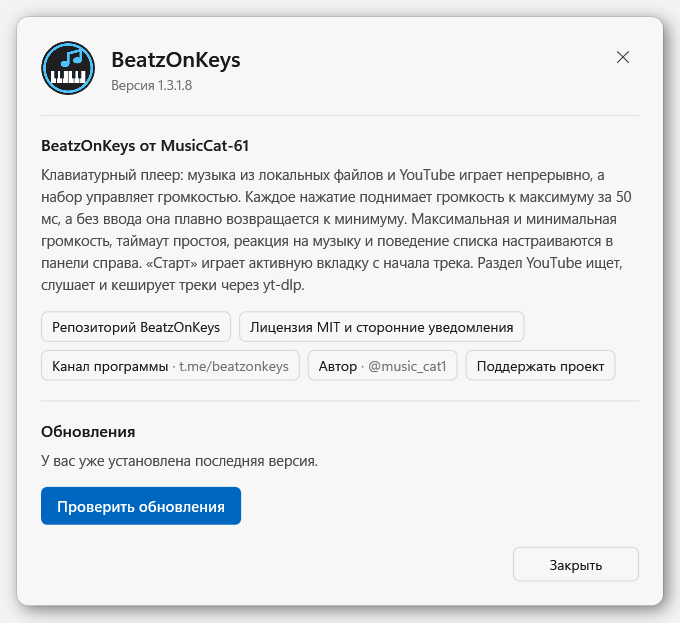
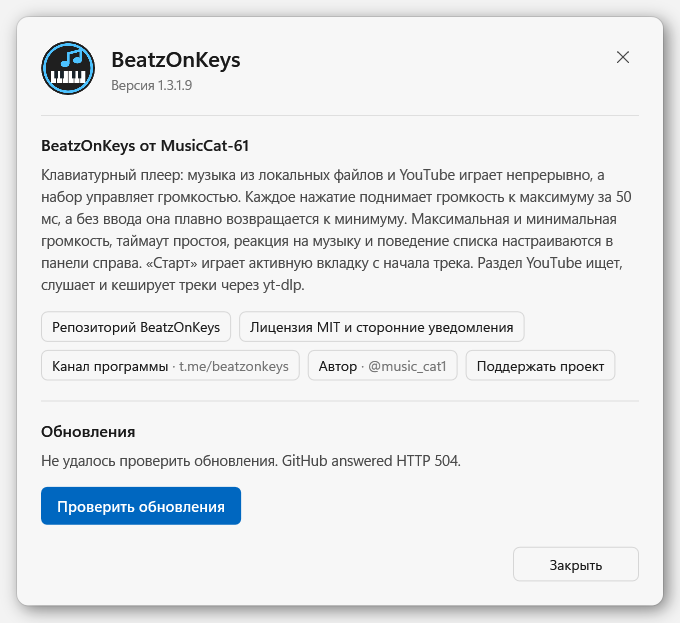
Release 1.3.1.9: previews ignore the idle pause, the link button says Download
The idle pause exists for the typing background: you stop typing, the track fades and pauses. A preview in the YouTube search is the opposite request, so YouTube tracks are now exempt: the effective pause is suspended while one plays, and the saved setting is untouched, so it returns as soon as a playlist track plays again. The suppression is applied before the first note, so a short idle time cannot be armed and fire a moment later.

The search hint told the user to press Download while the button read Add. It now says Download when a link is pasted; the per-row button keeps its Add label because that is what it does.

Core 112 tests, UI smoke 234 checks, production tray 11.

Changed region(s): [[0.0618, 0.7319, 0.6794, 0.7624]]

diff --git a/BeatzOnKeys.UI/Localization/Strings.ru.xaml b/BeatzOnKeys.UI/Localization/Strings.ru.xaml
@@ -167,6 +167,7 @@
     <sys:String x:Key="L_YtSearchPlaceholder">Название трека или ссылка YouTube</sys:String>
     <sys:String x:Key="L_YtSearch">Найти</sys:String>
     <sys:String x:Key="L_YtDownloadLink">Добавить</sys:String>
+    <sys:String x:Key="L_YtDownloadNow">Скачать</sys:String>
     <sys:String x:Key="L_YtTabSearch">Поиск</sys:String>
     <sys:String x:Key="L_YtTabDownloaded">Скачанные треки</sys:String>
     <sys:String x:Key="L_YtPreview">Слушать</sys:String>
@@ -248,7 +249,7 @@
     <sys:String x:Key="L_ZapretOpen">Открыть Zapret2UI</sys:String>
     <sys:String x:Key="Guide_SecYouTube">YouTube</sys:String>
     <sys:String x:Key="Guide_YouTubeSearchT">Поиск и скачивание</sys:String>
-    <sys:String x:Key="Guide_YouTubeSearchX">Вкладка «YouTube» в заголовке окна. Введите название и нажмите «Найти» — появится до 10 результатов. Кнопка «Скачать» рядом со строкой сохраняет трек. Если вставить ссылку на видео, «Найти» и «Скачать» скачают её сразу, без поиска.</sys:String>
+    <sys:String x:Key="Guide_YouTubeSearchX">Вкладка «YouTube» в заголовке окна. Введите название и нажмите «Найти» — появится до 10 результатов. Кнопка «Добавить» рядом с результатом сохраняет трек в постоянный список. Если вставить ссылку на видео, кнопка справа от поля станет «Скачать» и скачает её сразу, без поиска. Предпросмотр и скачанные треки играют полностью: пауза по простою на них не действует.</sys:String>
     <sys:String x:Key="Guide_YouTubeDownloadT">Прямые ссылки и ограничения</sys:String>
     <sys:String x:Key="Guide_YouTubeDownloadX">Кнопка «Добавить» на строке результата становится активной только после того, как трек закеширован, и переносит его в список скачанных. До этого момента нажимать нечего: файла ещё нет.</sys:String>
     <sys:String x:Key="Guide_YouTubeCacheT">Кеш и папка</sys:String>

diff --git a/BeatzOnKeys.UI/Localization/Strings.en.xaml b/BeatzOnKeys.UI/Localization/Strings.en.xaml
@@ -167,6 +167,7 @@ Details: {1}</sys:String>
     <sys:String x:Key="L_YtSearchPlaceholder">Track name or a YouTube link</sys:String>
     <sys:String x:Key="L_YtSearch">Search</sys:String>
     <sys:String x:Key="L_YtDownloadLink">Add</sys:String>
+    <sys:String x:Key="L_YtDownloadNow">Download</sys:String>
     <sys:String x:Key="L_YtTabSearch">Search</sys:String>
     <sys:String x:Key="L_YtTabDownloaded">Downloaded tracks</sys:String>
     <sys:String x:Key="L_YtPreview">Listen</sys:String>
@@ -248,7 +249,7 @@ Details: {1}</sys:String>
     <sys:String x:Key="L_ZapretOpen">Open Zapret2UI</sys:String>
     <sys:String x:Key="Guide_SecYouTube">YouTube</sys:String>
     <sys:String x:Key="Guide_YouTubeSearchT">Search and download</sys:String>
-    <sys:String x:Key="Guide_YouTubeSearchX">The YouTube tab in the title bar. Type a name and press Search to get up to ten results; the Download button on a row saves that track. Paste a video link and Search or Download will fetch it directly, without searching.</sys:String>
+    <sys:String x:Key="Guide_YouTubeSearchX">The YouTube tab in the window title. Type a name and press Search for up to 10 results. The Add button next to a result keeps the track in your saved list. Paste a video link and the button beside the field becomes Download and fetches it directly, without searching. Previews and downloaded tracks play in full: idle pausing does not apply to them.</sys:String>
     <sys:String x:Key="Guide_YouTubeDownloadT">Links and limits</sys:String>
     <sys:String x:Key="Guide_YouTubeDownloadX">The Add button on a result row becomes active only once the track is cached, and then moves it into the downloaded list. Before that there is nothing to press: the file does not exist yet.</sys:String>
     <sys:String x:Key="Guide_YouTubeCacheT">Cache and folder</sys:String>

diff --git a/BeatzOnKeys.UI/MainWindow.xaml b/BeatzOnKeys.UI/MainWindow.xaml
@@ -884,7 +884,8 @@
                                             <Style.Triggers>
                                                 <!-- A pasted link can only be downloaded, words can only be searched. -->
                                                 <DataTrigger Binding="{Binding YouTube.QueryIsLink}" Value="True">
-                                                    <Setter Property="Content" Value="{DynamicResource L_YtDownloadLink}"/>
+                                                    <!-- The hint says "press Download", so the button must say the same. -->
+                                                    <Setter Property="Content" Value="{DynamicResource L_YtDownloadNow}"/>
                                                     <Setter Property="Command" Value="{Binding YouTube.DownloadFromQueryCommand}"/>
                                                 </DataTrigger>
                                             </Style.Triggers>

diff --git a/BeatzOnKeys.UI/ViewModels/MainViewModel.cs b/BeatzOnKeys.UI/ViewModels/MainViewModel.cs
@@ -26,6 +26,11 @@ public sealed class MainViewModel : ObservableObject, IAsyncDisposable
     // Which tracks came from the YouTube cache, so the player card can name the source instead of
     // leaving the user guessing where the sound came from.
     private readonly HashSet<Guid> _youTubeTracks = [];
+    /// <summary>
+    /// True while a YouTube track is playing, which suspends the idle pause: a preview is the user
+    /// asking to hear the track properly, not the typing background this setting exists for.
+    /// </summary>
+    private bool _idlePauseSuppressed;
     private string _playingTrackText = string.Empty;
     private string _playingSourceText = string.Empty;
     private bool _isYouTubePage;
@@ -299,8 +304,29 @@ public sealed class MainViewModel : ObservableObject, IAsyncDisposable
     public bool PauseOnIdle
     {
         get => _pauseOnIdle;
-        set { if (SetProperty(ref _pauseOnIdle, value)) { _audioPlayer.PauseOnIdle = value; QueueSave(); } }
+        set { if (SetProperty(ref _pauseOnIdle, value)) { SyncIdlePause(); QueueSave(); } }
     }
+    /// <summary>
+    /// The idle pause exists for the typing background. A YouTube track — a search preview or a
+    /// saved one — is the user asking to hear it properly, so the pause stays out of the way.
+    /// Called from the progress tick, so an auto-advance back to a local track restores the setting
+    /// by itself without a second code path to forget.
+    /// </summary>
+    private void SyncIdlePauseFor(PlaybackTrack? playing)
+    {
+        var suppressed = playing is not null && _youTubeTracks.Contains(playing.Id);
+        if (suppressed == _idlePauseSuppressed) { return; }
+        _idlePauseSuppressed = suppressed;
+        SyncIdlePause();
+    }
+
+    /// <summary>The setting is kept as the user left it; only the effective value is suspended.</summary>
+    private void SyncIdlePause()
+    {
+        var effective = _pauseOnIdle && !_idlePauseSuppressed;
+        if (_audioPlayer.PauseOnIdle != effective) { _audioPlayer.PauseOnIdle = effective; }
+    }
+
     public bool AutoAdvance
     {
         get => _autoAdvance;
@@ -849,6 +875,7 @@ public sealed class MainViewModel : ObservableObject, IAsyncDisposable
             OnPropertyChanged(nameof(PlaybackProgress));
         }
         var playing = _playbackController.CurrentTrack;
+        SyncIdlePauseFor(playing);
         var playingName = playing is null ? string.Empty :
             _friendlyNames.TryGetValue(playing.Id, out var friendly) ? friendly : playing.Name;
         NowPlayingText = playing is null ? string.Empty :
@@ -936,6 +963,8 @@ public sealed class MainViewModel : ObservableObject, IAsyncDisposable
             // The controller holds the playback order; a YouTube file joins it for this run only,
             // and Reorder keeps it at the end when the local playlist changes.
             _playbackController.UpsertTrack(playback);
+            // Suspended before the first note: otherwise a short idle time would already be armed.
+            SyncIdlePauseFor(playback);
             if (!_typingPlayback.SelectTrack(playback.Id, restart: true)) { return; }
             if (!IsRunning)
             {

diff --git a/tools/UiSmoke/Program.cs b/tools/UiSmoke/Program.cs
@@ -1330,6 +1330,14 @@ internal sealed class SmokeRun(string root, string session, App app, int aborted
         Check("youtube.previewPlaysCachedFile",
             vm.IsRunning && player.IsPlaying && vm.NowPlayingText.Contains(firstResult.Title, StringComparison.Ordinal),
             $"Running={vm.IsRunning}, playing={player.IsPlaying}, now='{vm.NowPlayingText}'.");
+
+        // A preview is the user asking to hear the track, so the idle pause must stay away even
+        // though the setting is on. The player is watched past the timeout to catch a stale timer.
+        Check("youtube.previewKeepsSettingOn", vm.PauseOnIdle, "The saved setting itself must stay on.");
+        await Task.Delay(TimeSpan.FromSeconds(vm.IdleTimeout + 1.5));
+        Check("youtube.previewSurvivesIdleTimeout",
+            vm.IsRunning && player.IsPlaying && !player.IsIdlePaused,
+            $"Running={vm.IsRunning}, playing={player.IsPlaying}, idlePaused={player.IsIdlePaused}.");
         await StopAsync(vm);
          // Previews occupy space and can be cleared without touching the kept tracks.
         await UntilAsync(() => vm.YouTube.ClearSearchCacheCommand.CanExecute(null), 5000, "preview cache measured");

diff --git a/tools/AudioProbe/Program.cs b/tools/AudioProbe/Program.cs
@@ -210,7 +210,7 @@ static async Task<int> RunProbeAsync(string sourcePath, string reportPath)
     var passed = checks.All(check => check.Passed);
     var report = new
     {
-        passed, utc = DateTimeOffset.UtcNow, version = "1.3.1.8", source = Path.GetFileName(sourcePath),
+        passed, utc = DateTimeOffset.UtcNow, version = "1.3.1.9", source = Path.GetFileName(sourcePath),
         durationSeconds = duration.TotalSeconds, processId = Environment.ProcessId,
         capture = "Windows process-specific loopback (only this diagnostic process tree)",
         defaults = new { MinVolume = 0.2, MaxVolume = 1.0, IdleTimeout = 3, PauseOnIdle = true },

diff --git a/BeatzOnKeys.Tests/UpdateServiceTests.cs b/BeatzOnKeys.Tests/UpdateServiceTests.cs
@@ -18,8 +18,8 @@ internal static class UpdateServiceTests
         AssertEx.Equal(1, assemblyVersion.Major);
         AssertEx.Equal(3, assemblyVersion.Minor);
         AssertEx.Equal(1, assemblyVersion.Build);
-        AssertEx.Equal(8, assemblyVersion.Revision);
-        AssertEx.Equal("1.3.1.8", UpdateService.CurrentVersion.Display);
+        AssertEx.Equal(9, assemblyVersion.Revision);
+        AssertEx.Equal("1.3.1.9", UpdateService.CurrentVersion.Display);
 
         var current = Version("1.1.1");
         var result = UpdateService.ParseRelease(ReleaseJson("v1.1.1"), current);

diff --git a/BeatzOnKeys.UI/AboutWindow.xaml.cs b/BeatzOnKeys.UI/AboutWindow.xaml.cs
@@ -59,7 +59,7 @@ public partial class AboutWindow : Window
                 return parsed.Display;
             }
 
-            return assembly.GetName().Version?.ToString(3) ?? "1.3.1.8";
+            return assembly.GetName().Version?.ToString(3) ?? "1.3.1.9";
         }
     }
 

diff --git a/README.md b/README.md
@@ -4,7 +4,7 @@
 [![Download](https://img.shields.io/badge/download-portable%20win--x64-2ea44f?style=flat-square)](https://github.com/MusicCat-61/BeatzOnKeys/releases/latest)
 [![CI](https://github.com/MusicCat-61/BeatzOnKeys/actions/workflows/ci.yml/badge.svg?branch=main)](https://github.com/MusicCat-61/BeatzOnKeys/actions/workflows/ci.yml)
 [![License](https://img.shields.io/badge/license-MIT-blue?style=flat-square)](<LICENSE>)
-[![Version](https://img.shields.io/badge/version-1.3.1.8-4CC2FF?style=flat-square)](https://github.com/MusicCat-61/BeatzOnKeys/releases)
+[![Version](https://img.shields.io/badge/version-1.3.1.9-4CC2FF?style=flat-square)](https://github.com/MusicCat-61/BeatzOnKeys/releases)
 [![Platform](https://img.shields.io/badge/platform-Windows%2010%20%7C%2011-0078D6?style=flat-square)](#требования)
 [![.NET](https://img.shields.io/badge/.NET-10-512BD4?style=flat-square)](https://dotnet.microsoft.com/download/dotnet/10.0)
 
@@ -45,6 +45,7 @@ BeatzOnKeys написана на C# с .NET 10 и WPF; NAudio отвечает 
 - Нажатие любой клавиши, кроме **Shift, Ctrl и Alt**, плавно повышает громкость от тихого уровня (`MinVolume`) до `MaxVolume` за **50 мс**. Через **150 мс** без таких нажатий начинается снижение до тихого уровня за **200 мс**.
 - Если включено **«Ставить на паузу при простое»**, отсутствие нажатий дольше `IdleTimeout` ставит трек на паузу. Первая подходящая клавиша возобновляет воспроизведение **с той же позиции и мгновенно на `MaxVolume`**.
 - Если пауза при простое выключена, трек продолжает играть на тихом уровне, пока вы не печатаете.
+- **YouTube-треки исключены из паузы по простою.** Предпросмотр в поиске и скачанный трек играют полностью, даже если включена **«Ставить на паузу при простое»**: вы попросили послушать, а не включили фоновый режим. Сама настройка не меняется — пауза возвращается, когда снова играет трек из плейлиста.
 - **«Стоп» → «Старт» всегда начинает трек сначала.** Позиция текущего запуска сохраняется при паузе/возобновлении из-за простоя, но не после перезапуска приложения.
 
 ## Настройки
@@ -108,7 +109,7 @@ BeatzOnKeys написана на C# с .NET 10 и WPF; NAudio отвечает 
 
 Одновременно может работать только одна копия: повторный запуск возвращает окно уже работающей.
 
-Установщик, права администратора и отдельный .NET Runtime не нужны. **Обновление с 1.0.x:** закройте старую программу, скачайте 1.3.1.8 вручную и замените старую папку, не используя старый встроенный установщик. Настройки перенесутся автоматически, как описано [выше](#настройки).
+Установщик, права администратора и отдельный .NET Runtime не нужны. **Обновление с 1.0.x:** закройте старую программу, скачайте 1.3.1.9 вручную и замените старую папку, не используя старый встроенный установщик. Настройки перенесутся автоматически, как описано [выше](#настройки).
 
 ### Требования
 
@@ -194,14 +195,14 @@ dotnet build BeatzOnKeys.sln -c Release
 dotnet run --project BeatzOnKeys.Tests -c Release
 ```
 
-Создайте портативную самодостаточную папку **1.3.1.8** в Windows **cmd**:
+Создайте портативную самодостаточную папку **1.3.1.9** в Windows **cmd**:
 
 ```bat
-set BOK_VERSION=1.3.1.8
+set BOK_VERSION=1.3.1.9
 publish.bat
 ```
 
-Теперь скрипт по умолчанию использует `BOK_VERSION=1.3.1.8`; явное указание переменной делает целевую версию релиза однозначной.
+Теперь скрипт по умолчанию использует `BOK_VERSION=1.3.1.9`; явное указание переменной делает целевую версию релиза однозначной.
 
 Скрипт проверяет цель очистки `Build_Output`, публикует `BeatzOnKeys.UI` как self-contained `win-x64` и копирует оба README, примечания к релизу, скриншоты, лицензию и сторонние уведомления. Любая обязательная ошибка публикации/копирования останавливает сборку. Итоговый `Build_Output` — портативный продукт.
 

diff --git a/release-notes/v1.3.1.9.md b/release-notes/v1.3.1.9.md
@@ -1,0 +1,49 @@
+## English
+
+1.3.1.9 is a small UX pass on the YouTube page: a preview no longer falls asleep, and the button says what the hint says.
+
+### A preview plays to the end
+
+- **The idle pause no longer touches YouTube tracks.** It exists for the typing background: you stop typing, the track fades and pauses so the room goes quiet. A preview in the search results is the opposite request — you asked to hear the track properly. It now plays to the end even with **Pause on idle** enabled.
+- **The setting itself is not changed.** It stays exactly as you left it, and the pause returns as soon as a playlist track is playing again. The decision follows the track, not a global switch.
+- **The suspension is applied before the first note**, so a short idle time cannot be armed and fire a moment later.
+
+### The button matches the hint
+
+- **The hint says "press Download", so the button now says «Скачать»/«Download»** when a link is pasted. It used to read «Добавить»/«Add» — which is what the per-row button does, and that one keeps its name.
+
+## Русский
+
+1.3.1.9 — небольшая правка UX на странице YouTube: предпросмотр больше не засыпает, а кнопка говорит то же, что подсказка.
+
+### Предпросмотр играет до конца
+
+- **Пауза по простою больше не трогает YouTube-треки.** Она существует для набора текста: вы перестаёте печатать, трек затихает и встаёт на паузу, чтобы в комнате стало тихо. Предпросмотр в результатах поиска — противоположный запрос: вы попросили послушать трек как следует. Теперь он играет до конца даже при включённой **«Ставить на паузу при простое»**.
+- **Сама настройка не меняется.** Она остаётся такой, как вы её оставили, и пауза возвращается, как только снова играет трек из плейлиста. Решение следует за треком, а не за глобальным переключателем.
+- **Приостановка применяется до первой ноты**, поэтому короткий простой не успевает вооружиться и сработать мгновением позже.
+
+### Кнопка совпадает с подсказкой
+
+- **Подсказка говорит «нажмите Скачать», и кнопка теперь тоже говорит «Скачать»/«Download»**, когда вставлена ссылка. Раньше там было «Добавить»/«Add» — так называется кнопка в строке результата, и она своё имя сохранила.
+
+## Assets
+
+Every file for this version is attached to the release:
+
+| File | What it is |
+|---|---|
+| [`BeatzOnKeys.exe`](https://github.com/MusicCat-61/BeatzOnKeys/releases/download/v1.3.1.9/BeatzOnKeys.exe) | Portable single-file build — **this is what the in-app updater downloads** |
+| [`BeatzOnKeys.exe.sha256`](https://github.com/MusicCat-61/BeatzOnKeys/releases/download/v1.3.1.9/BeatzOnKeys.exe.sha256) | SHA-256 of the executable |
+| [`BeatzOnKeys-win-x64.zip`](https://github.com/MusicCat-61/BeatzOnKeys/releases/download/v1.3.1.9/BeatzOnKeys-win-x64.zip) | The same build as a folder archive, for a manual install |
+| [`BeatzOnKeys-win-x64.zip.sha256`](https://github.com/MusicCat-61/BeatzOnKeys/releases/download/v1.3.1.9/BeatzOnKeys-win-x64.zip.sha256) | SHA-256 of the archive |
+
+## Ассеты
+
+Все файлы этой версии прикреплены к релизу:
+
+| Файл | Что это |
+|---|---|
+| [`BeatzOnKeys.exe`](https://github.com/MusicCat-61/BeatzOnKeys/releases/download/v1.3.1.9/BeatzOnKeys.exe) | Портативная сборка одним файлом — **именно её скачивает встроенный апдейтер** |
+| [`BeatzOnKeys.exe.sha256`](https://github.com/MusicCat-61/BeatzOnKeys/releases/download/v1.3.1.9/BeatzOnKeys.exe.sha256) | SHA-256 исполняемого файла |
+| [`BeatzOnKeys-win-x64.zip`](https://github.com/MusicCat-61/BeatzOnKeys/releases/download/v1.3.1.9/BeatzOnKeys-win-x64.zip) | Та же сборка папкой, для ручной установки |
+| [`BeatzOnKeys-win-x64.zip.sha256`](https://github.com/MusicCat-61/BeatzOnKeys/releases/download/v1.3.1.9/BeatzOnKeys-win-x64.zip.sha256) | SHA-256 архива |

diff --git a/README.en.md b/README.en.md
@@ -4,7 +4,7 @@
 [![Download](https://img.shields.io/badge/download-portable%20win--x64-2ea44f?style=flat-square)](https://github.com/MusicCat-61/BeatzOnKeys/releases/latest)
 [![CI](https://github.com/MusicCat-61/BeatzOnKeys/actions/workflows/ci.yml/badge.svg?branch=main)](https://github.com/MusicCat-61/BeatzOnKeys/actions/workflows/ci.yml)
 [![License](https://img.shields.io/badge/license-MIT-blue?style=flat-square)](<LICENSE>)
-[![Version](https://img.shields.io/badge/version-1.3.1.8-4CC2FF?style=flat-square)](https://github.com/MusicCat-61/BeatzOnKeys/releases)
+[![Version](https://img.shields.io/badge/version-1.3.1.9-4CC2FF?style=flat-square)](https://github.com/MusicCat-61/BeatzOnKeys/releases)
 [![Platform](https://img.shields.io/badge/platform-Windows%2010%20%7C%2011-0078D6?style=flat-square)](#requirements)
 [![.NET](https://img.shields.io/badge/.NET-10-512BD4?style=flat-square)](https://dotnet.microsoft.com/download/dotnet/10.0)
 
@@ -45,6 +45,7 @@ BeatzOnKeys is written in C# with .NET 10 and WPF, with NAudio for decoding and 
 - A key press other than **Shift, Ctrl, or Alt** raises volume smoothly from the quiet level (`MinVolume`) to `MaxVolume` over **50 ms**. After **150 ms** without a qualifying key, volume falls to the quiet level over **200 ms**.
 - With **Pause on idle** enabled, inactivity longer than `IdleTimeout` pauses the track. The first qualifying key resumes playback **at the same position and instantly at `MaxVolume`**.
 - With idle pausing disabled, the track keeps playing at the quiet level while you are not typing.
+- **YouTube tracks are exempt from idle pausing.** A search preview and a downloaded track play in full even with **Pause on idle** enabled: you asked to hear the track, not to start a background session. The setting itself is unchanged — the pause returns when a playlist track plays again.
 - **Stop → Start always restarts from the beginning.** An idle pause/resume preserves the position during the current run; playback position is not saved across application restarts.
 
 ## Settings
@@ -108,7 +109,7 @@ Choosing another track starts that track from its beginning.
 
 Only one copy can run at a time: launching it again restores the window of the running copy.
 
-No installer, administrator rights, or separate .NET runtime are required. **Upgrading from 1.0.x:** close the old app, download 1.3.1.8 manually, and replace the old folder rather than using the old in-app installer. Existing settings migrate automatically as described [above](#settings).
+No installer, administrator rights, or separate .NET runtime are required. **Upgrading from 1.0.x:** close the old app, download 1.3.1.9 manually, and replace the old folder rather than using the old in-app installer. Existing settings migrate automatically as described [above](#settings).
 
 ### Requirements
 
@@ -196,14 +197,14 @@ dotnet build BeatzOnKeys.sln -c Release
 dotnet run --project BeatzOnKeys.Tests -c Release
 ```
 
-Create the **1.3.1.8** portable self-contained folder in Windows **cmd**:
+Create the **1.3.1.9** portable self-contained folder in Windows **cmd**:
 
 ```bat
-set BOK_VERSION=1.3.1.8
+set BOK_VERSION=1.3.1.9
 publish.bat
 ```
 
-The publisher now defaults to `BOK_VERSION=1.3.1.8`; setting it explicitly makes the intended release version clear.
+The publisher now defaults to `BOK_VERSION=1.3.1.9`; setting it explicitly makes the intended release version clear.
 
 The publisher validates its `Build_Output` cleanup target, publishes `BeatzOnKeys.UI` self-contained for `win-x64`, and copies both READMEs, release notes, screenshots, the license, and third-party notices. It stops on any required publish/copy failure. The resulting `Build_Output` directory is the portable product.
 
